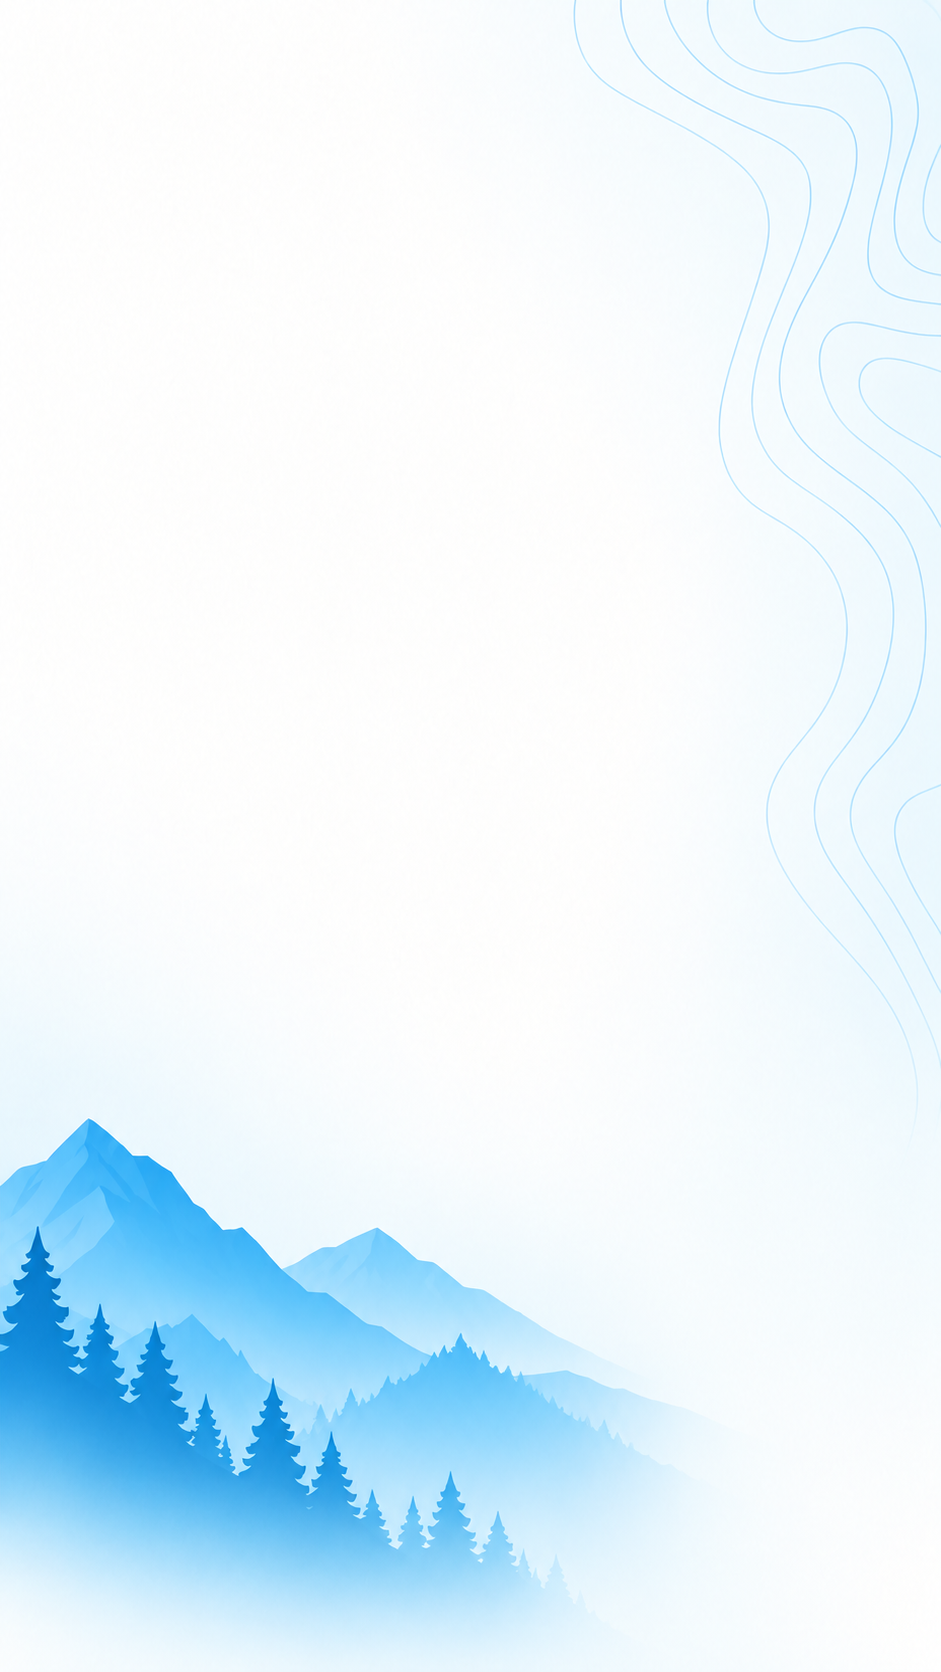
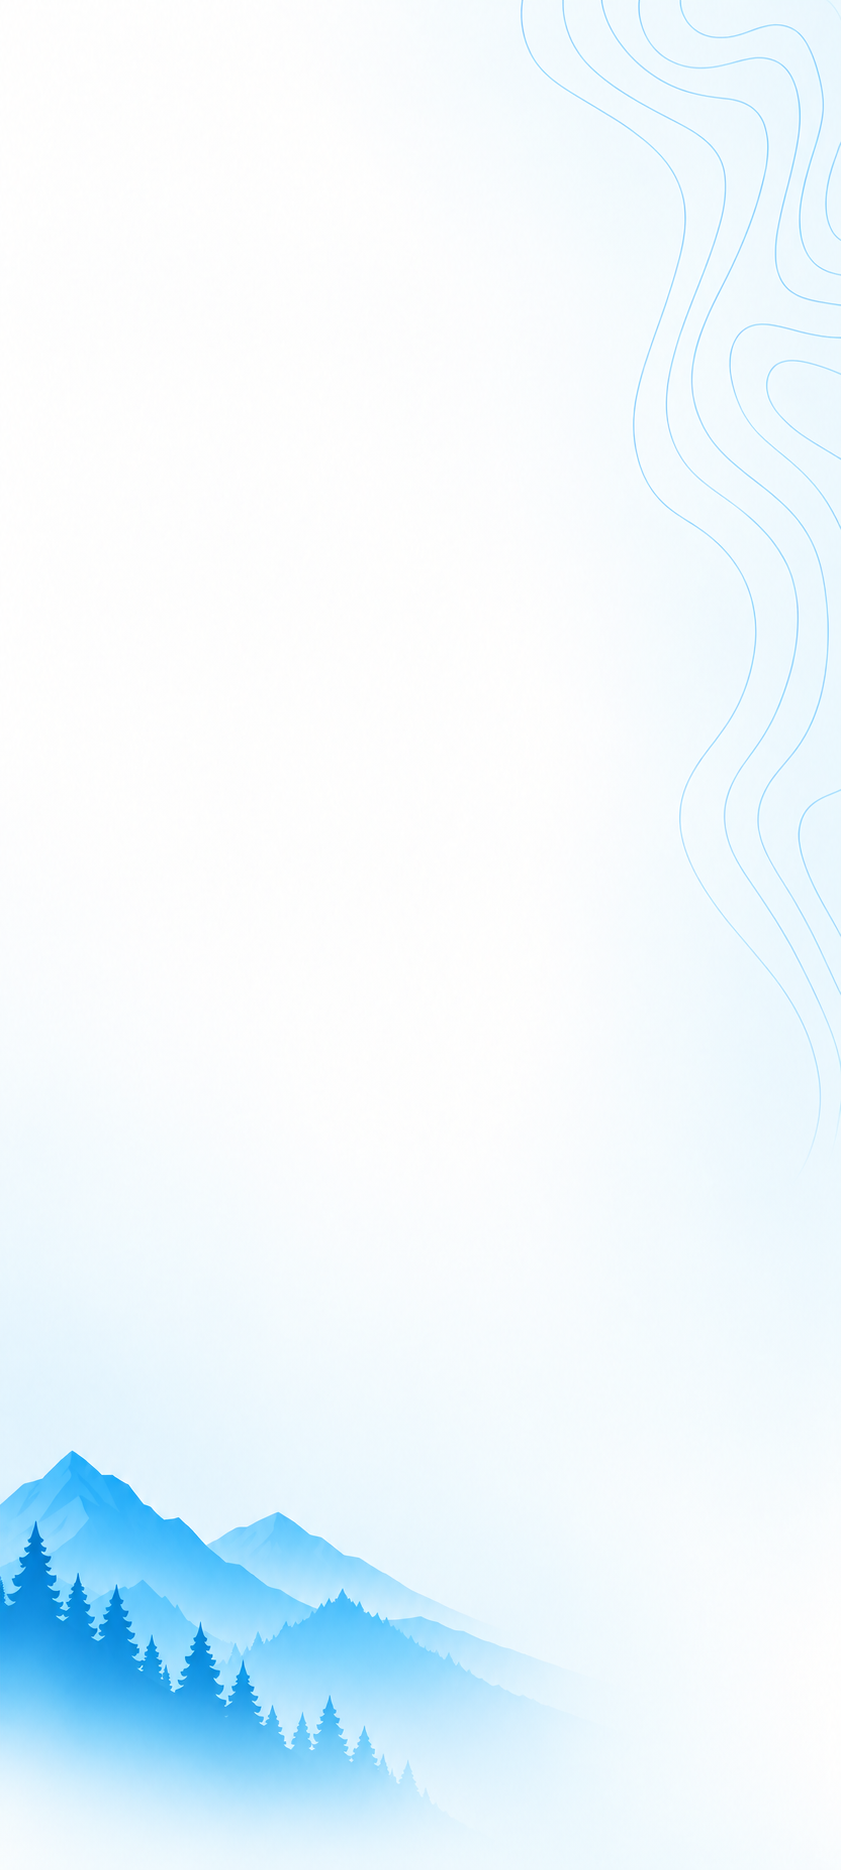
Usar la imagen de fondo del menú de Mi Cuenta con proporciones ajustadas

diff --git a/src/app/mi-cuenta/barra-cuenta.js b/src/app/mi-cuenta/barra-cuenta.js
@@ -83,23 +83,18 @@ export default function BarraCuenta({
       />
 
       <div
-        className={`fixed inset-y-0 left-0 z-50 w-60 max-w-[65vw] shadow-xl overflow-hidden transition-transform duration-300 ease-in-out ${
+        style={{
+          backgroundImage:
+            "linear-gradient(rgba(2, 132, 199, 0.2), rgba(2, 132, 199, 0.2)), url('/fondo-sidebar_Micuenta.png')",
+          backgroundSize: "cover",
+          backgroundPosition: "right bottom",
+          backgroundRepeat: "no-repeat",
+        }}
+        className={`fixed inset-y-0 left-0 z-50 w-60 max-w-[65vw] shadow-xl transition-transform duration-300 ease-in-out ${
           menuAbierto ? "translate-x-0" : "-translate-x-full"
         }`}
       >
-        <div
-          style={{
-            backgroundImage:
-              "linear-gradient(rgba(2, 132, 199, 0.2), rgba(2, 132, 199, 0.2)), url('/fondo-sidebar_Micuenta.png')",
-            backgroundSize: "cover",
-            backgroundPosition: "right bottom",
-            backgroundRepeat: "no-repeat",
-            transform: "scale(1.3)",
-            transformOrigin: "bottom right",
-          }}
-          className="absolute inset-0"
-        />
-        <div className="relative flex flex-col gap-3 p-4">
+        <div className="flex flex-col gap-3 p-4">
           {ITEMS.map((item) =>
             onSeleccionar ? (
               <button
